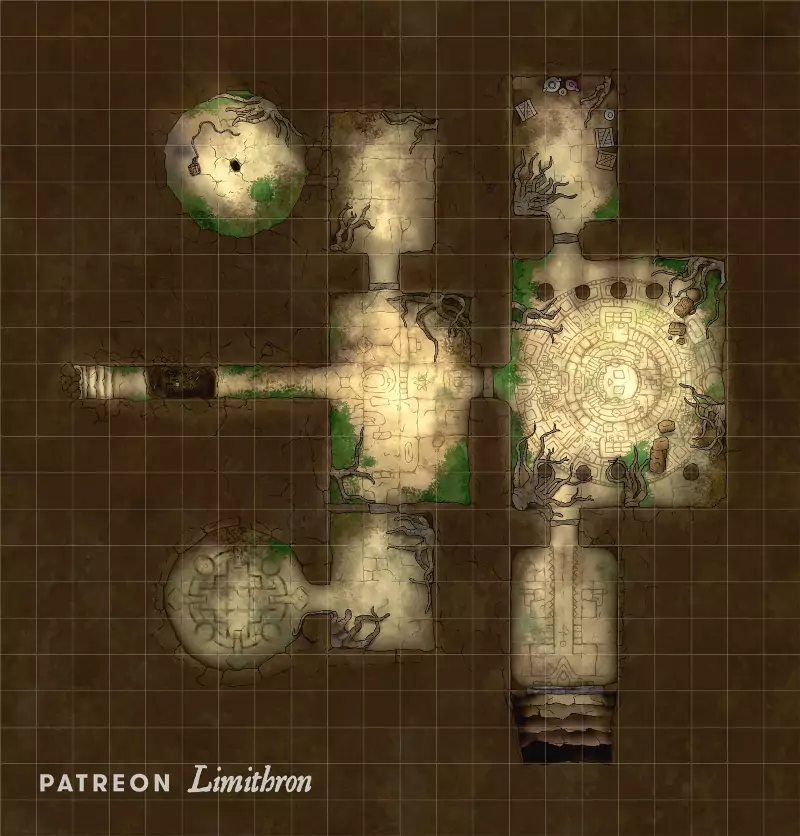
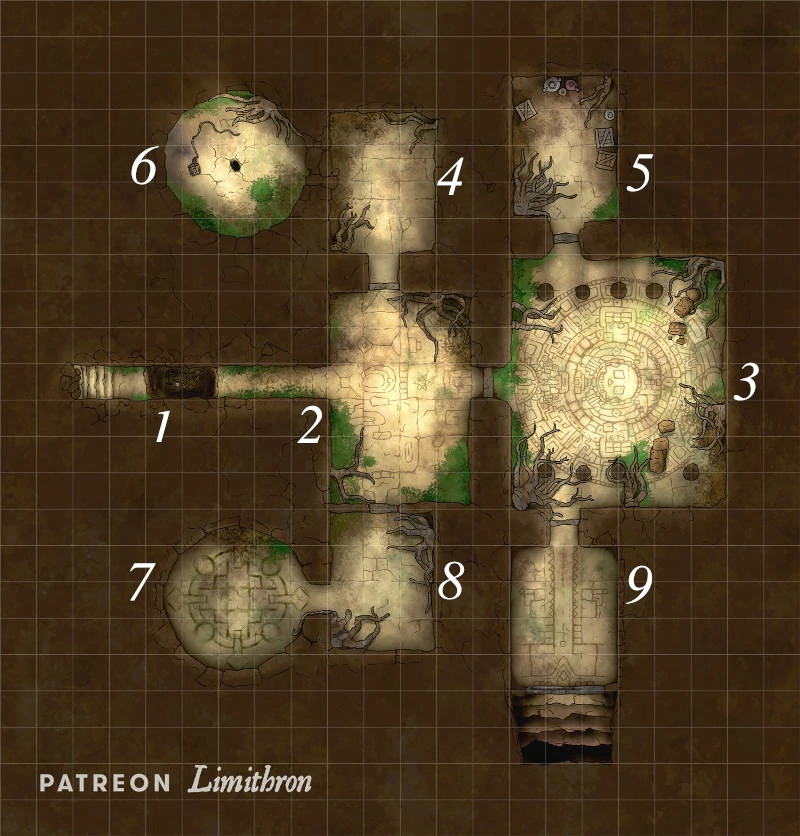
El templo perdido

diff --git a/index.html b/index.html
@@ -9379,7 +9379,7 @@
       correrá por los puertos del Caribe devolviéndoles su buena (o mala) reputación. Veamos algunas opciones:</p>
     <ul>
       <li><b>Caligrafía forense:</b> Si consiguen un documento escrito por Roberts podrán demostrar que la nota esa es
-        falsa. En la La Taberna del Alción en santo domingo, Bartolo y Antonia puede que tengas algo escrito por
+        falsa. En la La Taberna del Alción en Santo Domingo, Bartolo y Antonia puede que tengas algo escrito por
         Roberts.</li>
       <li><b>Cuenta conmigo:</b> Un importante pirata podría darles su voto de confianza. Esto supondría deberle un
         favor
@@ -9749,7 +9749,7 @@
         Caribe están en La Habana. Por 500 doblones podrán hacerte la lamina de cristal, el problema será 
         transportarlo de vuelta. Una tormenta, un ataque de profundos o una batalla naval podrían dañarlo 
         irreversiblemente. Tampoco será fácil llevarlo al lugar donde lo necesite Balua'k.</li>
-      <li><b>Cristales azules de laminar:</b> Esta piedra semipreciosa de color azul solo se encuentra solo en la 
+      <li><b>Cristales azules de laminar:</b> Esta piedra semipreciosa de color azul se encuentra solo en la 
         cordillera de Barohuco en el sur de Santo Domingo. Deberán adentrarse en la selva hasta llegar a las 
         montañas y allí buscar un yacimiento. Necesitarán equipo de excavación y algo para los 500 kilos que 
         les ha pedido. Balua'k pide tanto mineral porque debe refinarlo.</li>
@@ -9783,9 +9783,9 @@
       permitir que se repita. Tienen intención de matar a todos los testigos y destruir el invento de Balua'k.</p>
     <p>La batalla será a muerte, los sabuesos ni se rinden ni huyen, solo puede quedar un bando vivo. Es importante 
       que sepan que esto volverá a pasar si activan el ingenio.</p>
-    <h3>Recompensas</h3>
+    <h4>Recompensas</h4>
     <p>Si ayudan a Balua'k y vuelve a su tiempo, este les dará sus libros de notas. Tienen formulas, 
-      esquemas, teorías, ... que ha usado en sus proyectos para la RCPC.  No pueden considerarse 
+      esquemas, teorías, ... que ha usado en sus proyectos para la RCPC. No pueden considerarse 
       libros de los Mitos, pero si una persona con Ciencias d8 o más se estudia los cuadernos de notas durante 
       una semana, obtendrá un +2 a las tiradas de Ciencias o Reparar cuando traten de sabotear algún artilugio 
       científico de la RCPC. También da el bono para saber sus fallos y como aprovecharlos.</p>
@@ -9809,7 +9809,8 @@
       malignas.</p>
     <p>Anya no puede volver a su tranquilo Boston hasta que no se deshaga de la casa vendiéndola o encuentre nuevos
       inquilinos. Necesita el dinero que le renta la mansión para vivir desahogadamente
-      en los Estados Unidos. Anya está alojada en una modesta posada de Port Royal, ya que ella tampoco se atreve a
+      en los Estados Unidos. Es por ello que ofrece 200 doblones al que pase una noche en la casa y la exorcice.</p>
+    <p>Anya está alojada en una modesta posada de Port Royal, ya que ella tampoco se atreve a
       ocupar
       la casa familiar. La historias de fantasmas y apariciones han rondado la mansión Corbitt
       desde su construcción. Ella ha visto cosas en esa casa que con los años ha ido olvidando, pero
@@ -10052,6 +10053,11 @@
       a los familiares de las víctimas de los sacrificios humanos. En muchos casos se podrán
       recuperar los cadáveres de las víctimas y darles un entierro digno. Esto dará por fín un
       respiro a las familias y debes considerar que esto debería ayudar a la cordura de tu mesa.</em></p>
+    <p>Si alguien quiere puede tratar de alquilar la mansión a Anya por 600 doblones mensuales. Pero 
+      todos los costes de mantenimiento corren a cargo del inquilino, desde atender el jardín 
+      hasta arreglar el tejado. Anya estará encantada de alquilárselo a tu mesa, de hecho 
+      no les cobrará los dos primeeros meses por el trabajo en vez de darles los 200 doblones 
+      de recompensa.</p>
     
     <h3 class="ribbon">Muerte súbita</h3>
     <p><b>Comienzo:</b> En alguna comunidad taina o viajando por la jungla</p>
@@ -10473,7 +10479,7 @@
       <p>Para evitarse problemas con los chthonianos montaron todo este tinglado en una isla porque estos no soportan
         el agua y es una forma my fácil de poder huir de ellos. Pero no lo que no pensaban es que la isla tuviera Una
         base tan frágil y con cada temblor se hunde en el mar.</p>
-      <h4>Solucionado el embrollo</h4>
+      <h4>Solucionando el embrollo</h4>
       <p>En este punto y con toda la información déjales que decidan que quieren hacer.</p> 
       <ul>
         <li>Pueden intentar rescatar el huevo, pero cuando lo entreguen a los padres, estos seguramente destruirán 
@@ -10544,8 +10550,90 @@
         ruinoso. Puede que la promesa de riquezas y secretos oscuros les tiente a explorarlo, pero no serán
         una aventura sencilla.</p>
       <p>Las ruinas que han encontrado son un antiquísimo puesto avanzado de investigación de la serpigente donde
-        hacían experimentos genéticos para mejorar a sus esclavos humanos y hacerlos más dóciles.</p>
-      <p>***</p>
+        hacían experimentos genéticos para mejorar a sus esclavos humanos y hacerlos más dóciles. 
+        Explorar este templo puede ser muy peligroso, pero puede haber una gran recompensa si saben donde buscar.</p>
+      
+      <p>Cubierta de mucha vegetación se ve una especie de cabeza de serpiente o reptil gigantesca cuya boca es una entrada a 
+        unas instalaciones subterraneas. Despues de desbrozar toda la maleza, hay una gran puerta de piedra circular 
+        dentro de sus fauces. Parece que se desliza a un lado, pero el tiempo la ha atascado. Con picos y palas pueden 
+        moverla con una hora de trabajo, pero pueden recurrir a la polvora o a magia para abrirla.</p>
+      <p>Alrededor de la entreda no encontrarán nada significativo, quizas alguna pieza de metal que estaba en el interior 
+        del templo.</p>
+      <p>Habitaciones de las instalaciones subterraneas:</p>
+      <p><b>1. Entrada:</b> ***</p>
+      <p><b>2. Sala central:</b> Esta gran sala da acceso al resto de las isntalaciones. Tiene pinta por 
+        los agujeros en la pared y los ganchos que había algún tipo de cuadros colgados de las paredes (en 
+        realidad pantallas electronicas con datos de la investigación). A la altura de la cintura hay por 
+        todas las paredes un bajorrelieve que representan serpientes en los ojos hay en muchas de ellas una 
+        cuentas de cristal que se iluminan cuando alguien se acerca a dos casillas de cualquier puerta. Analiza 
+        el código genético del sujeto y si es humano desde todas las serpientes del bajorrelieve cercanas se 
+        lanzará una red de rayos electricos que atacará al que quiera cruza la puerta. Hace 3d6 de daño y si 
+        hace herida lanza al objetivo a 1d4 pasos en dirección contraria a la puerta que quería cruzar.</p>
+      <p><b>3. Sala principal:</b> ***</p>
+      <p><b>4. Sala de pruebas:</b> Igual que la sala 8.</p>
+      <p><b>5. Almacen de material:</b> ***</p>
+      <p><b>6. Celda 1:</b> La entrada esta cegada por un derrumbamiento. Si quitan las piedras podrán entrar 
+        en otra celda como la habitación 7.</p>
+      <p><b>7. Celda 2:</b> Esta habitación se usaba de celda para retener las cobayas humanas. En la zona 
+        de la entrada parece que había algún tipo puerta por el diseño del marco de la puerta. Si examinan 
+        las paredes podrán ver restos de cadenas y ganchos de metal usados para reterer a los sujetos 
+        de experimentos más peligrosos. Con una tirada de Ciencias verán que el metal esta solo sucio 
+        sin restos de oxidación. No parece nada hecho por el hombre. Si lo llevan a un artesano podría 
+        montar dos juegos de grilletes para brazos u piernas casi irrompibles (consistencia 30) que 
+        permitiría retener a un ser de tamaño de -1 a 2.</p>
+      <p><b>8. Sala de pruebas:</b> Aquí era donde se experimentaba con humanos. Se les sacaba de las 
+        celdas se les ponía en unas camas con sujeciones y se les inyectaba diferentes productos para 
+        ver sus efectos. Hay restos de diferentes restos de recipientes.</p>
+      <p><b>9. Acceso a la planta inferior:</b> Desde esta sala se podía acceder a la planta inferior, 
+        desgracidamente está todo inundado y no se puede acceder. En esta planta estaba la mini central 
+        nuclear que aun da algo electricidad al laboratorio. El agua está contaminada y sumergirse en ellas 
+        puede ser peligroso por la Radiación. Cualquiera que entre en el agua deberá tirar Vigor
+        cada minuto, si falla la tirada adquirirá un nivel de fatiga (ver reglas de Radiación de SWADE).</p>
+      <p>Al salir del laboratorio les estarán esperando 4 madres de aguas degeneradas que vigilan el templo. 
+        Las madres de agua son un experimento genético de la serpigente para crear guardianes de sus enclaves 
+        científicos. En su tiempo erán muy inteligentes, como humanos bastante cultos, pero estas 4 son 
+        descencientes asalvajadas durante generaciones y generaciones a lo largo de los milenios. Han perdido sus poderes y 
+        su inteligencia ahora es tipo Animal. En conpensación son muy duras y aguantan 1 herida antes de caer
+        incapacitados.</p>
+      <ul>
+        <li><b>Atributos:</b> Agilidad d6, Astucia d8 (A), Espíritu d8, Fuerza d12+2, Vigor d10</li>
+        <li><b>Habilidades:</b> Atletismo d8, Notar d10, Pelear d10, Sigilo d10</li>
+        <li><b>Paso:</b> 4; <b>Parada:</b> 7; <b>Dureza:</b> 12 (5)</li>
+        <li><b>Capacidades especiales:</b>
+          <ul>
+            <li><b>Acuático:</b> Paso nadando 4.</li>
+            <li><b>Tamaño 4:</b> 15 metros de largo y 1,2 toneladas de peso (+4 dureza, +2
+              bonificación al atacarla, +1 herida).</li>
+            <li><b>Armadura +1:</b> Sus duras escamas le proporcionan protección.</li>
+            <li><b>Constreñir:</b> La serpiente gana una bonificación de +2 a las tiradas de Atletismo y
+              Fuerza relacionadas con presas.</li>
+            <li><b>Mordisco:</b> Daño FUE</li>
+            <li><b>Cuernos:</b> Daño FUE+1</li>
+            <li><b>Muy duros:</b> Aguantan 1 herida antes de caer incapacitados</li>
+          </ul>
+        </li>
+        <li><b>Botín:</b> 1d4 (normalmente en su madriguera)</li>
+      </ul>
+      <p>Puede convertir este templo en una guarida en mita de la jungla donde refugiarse y esconderse 
+        cuando las cosas se pongan chungas. Nadie tiene idea de su paradero y es facilmente defendible. 
+        Cerrando con piedras el acceso al piso inferior e invirtiendo unos 2.000 doblones en materiales 
+        se podría acondicionar para poder vivir en ella con camas, cocina, zona de alamnecaje, fresquera e 
+        incluso tener algún tipo de deposito de agua de lluvia. Debido a los problemas de radiación es 
+        un refugio para estancias cortas, si se prolongasen mucho en el tiempo debería tirar por 
+        envenenamiento por radiciaón una vez al día.</p>
+      <p class="rule">Puede que a alguien se le ocurra llevarse el agua irradiada para algún bizarro plan de ataque. 
+        Transportar este material supone tirar Vigor una vez al día (Radiación de bajo nivel). Beberla 
+        obligaraá a hacer una tirada de Vigor con -4. Si se falla se adquerira una enfermedad crónica 
+        por radiación. Si esta agua es vertida en un lago o en un pozo contaminará toda la zona y la 
+        hara inviable para la vida. Beber el agua del pozo o lago exigirá una tirada de Vigor para no adquirir 
+        la enfermedad por radiación.</p>
+      <p class="rule">Cabe recordar que puede funcionar perfectamente en seres de 
+        los Mitos, aunque no los mataría al momento. Sería posible dejar caer el agua contaminada 
+        sobre un Shoggoth y envenanarle con radiación. Seguramente en unos días morirá envenedado 
+        por radiaciṕon.</p>
+      <p class="rule">Por último recordad que tu mesa son buenas personas y usar material radioactivo 
+        es algo que daña seriamente el medioambiente durante decadas o siglos. Sin olvidarnos de las 
+        enfermedades y extrañas mutaciones que producen en personas y animales.</p>
       <div class="saltopagina"></div>
       <img class="map-grid" src="./images/templo-perdido-jungla.webp" alt="Templo perdido" data-title="Templo perdido" style="height: auto;">
       <p class="leyendamapa">Templo perdido</p>
@@ -10956,7 +11044,7 @@
       para crear una raza inferior de siervos. Seguramente algunos ejemplares escaparon o fueron liberados
       por la serpigente y sus descendientes han llegado hasta nuestros días.</p>
     <ul>
-      <li><b>Atributos:</b> Agilidad d6, Astucia d9, Espíritu d8, Fuerza d12+2, Vigor d10</li>
+      <li><b>Atributos:</b> Agilidad d6, Astucia d8, Espíritu d8, Fuerza d12+2, Vigor d10</li>
       <li><b>Habilidades:</b> Atletismo d8, Notar d10, Pelear d10, Sigilo d10</li>
       <li><b>Paso:</b> 4; <b>Parada:</b> 7; <b>Dureza:</b> 12 (5)</li>
       <li><b>Ventajas:</b> Armas naturales</li>

diff --git a/README.md b/README.md
@@ -47,7 +47,6 @@ Gracias por su documentación a:
 
 ## Por hacer en Relatos salvajes
 * El tesoro hundido
-* El templo perdido
 * Madre de aguas
 * El yeho
 * Nunca me habían dado todo
@@ -73,7 +72,8 @@ Gracias por su documentación a:
 ### Ver. 0.6.3 En desarrollo
 * Localizaciones acabadas de las Islas Piratas.
 * Terminadas secciones de: Religiones, Taínos
-* Aventura "En paradero desconocido"
+* Aventura "En paradero desconocido" terminada
+* Aventura "El templo perdido" terminada
 
 ### Ver. 0.6.2 22/08/2023
 * Seguimos el desarrollo del worldbuilding en la sección de "El caribe de los Mitos"
